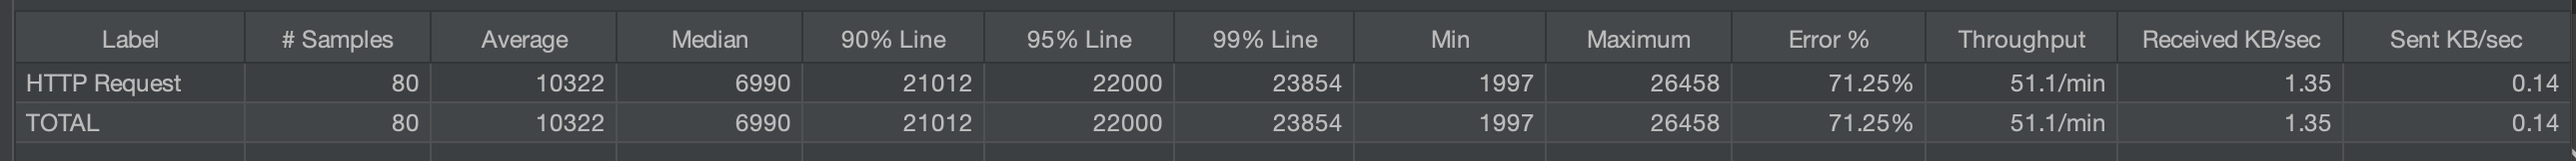
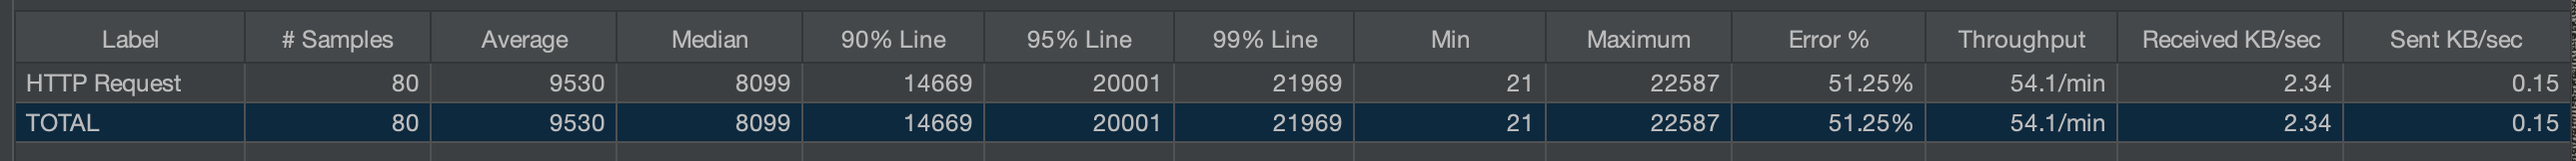
Improved Performance for cover art service by using non-blocking Flux instead of stream().filter().

diff --git a/src/main/java/com/plugsurfing/musicservice/dto/CoverArtResponse.java b/src/main/java/com/plugsurfing/musicservice/dto/CoverArtResponse.java
@@ -9,6 +9,8 @@ import lombok.Data;
 import lombok.Getter;
 import lombok.NoArgsConstructor;
 import lombok.Setter;
+import reactor.core.publisher.Flux;
+import reactor.core.publisher.Mono;
 
 @Data
 @Getter @Setter
@@ -26,10 +28,10 @@ public class CoverArtResponse {
         private boolean front; // we will prefer front image.
     }
 
-    public Image getFrontImage() {
-        return this.images == null ? null :
-            this.images.stream()
-                .filter(Image::isFront).findFirst()
-                .orElse(this.images.stream().filter(x -> x.getUrl() != null).findFirst().orElse(null));
+    public Mono<Image> getFrontImage() {
+        return this.images == null || this.images.size() == 0 ? Mono.empty() :
+            Flux.fromIterable(this.images)
+                .takeUntil(Image::isFront)
+                .takeLast(1).single();
     }
 }

diff --git a/src/main/java/com/plugsurfing/musicservice/services/CoverArtService.java b/src/main/java/com/plugsurfing/musicservice/services/CoverArtService.java
@@ -27,10 +27,10 @@ public class CoverArtService {
             .bodyToMono(CoverArtResponse.class);
 
         return imagesMono
-            .flatMap(image -> {
-                album.setImageUrl(image.getFrontImage().getUrl());
-                return Mono.just(album);
-            })
+            .flatMap(coverArt -> coverArt.getFrontImage().map(image -> {
+                album.setImageUrl(image.getUrl());
+                return album;
+            }))
             .onErrorResume(e -> {
                 // Don't set Image Url if it's not found.
                 if (e instanceof WebClientResponseException.NotFound || e instanceof WebClientResponseException.BadRequest)

diff --git a/README.md b/README.md
@@ -108,7 +108,7 @@ OKs: 56/80
 
 ##### Rate: 10 req / sec
 
-Error Rate: 71.25%
+Error Rate: 51.25%
 
 OKs: 23/80
 
